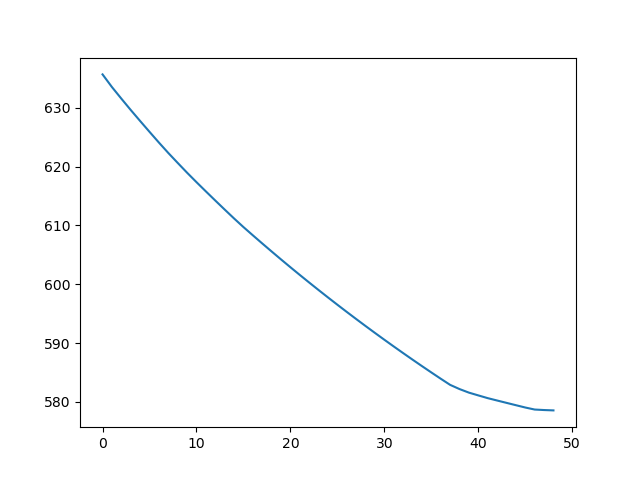
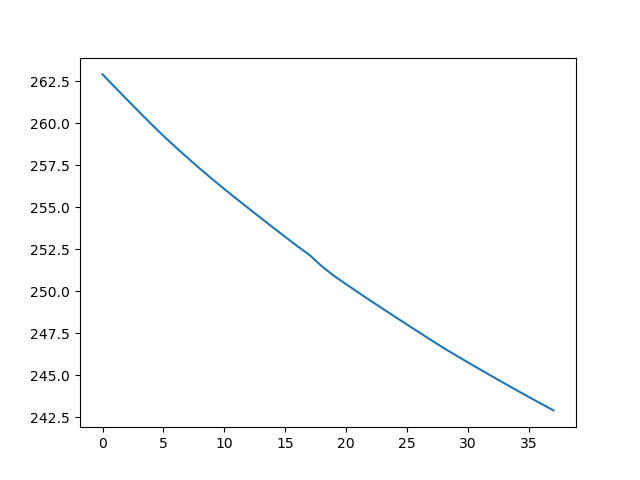
u

diff --git a/Jupyterbook/Notebooks/benchmarking/case2/runC.py b/Jupyterbook/Notebooks/benchmarking/case2/runC.py
@@ -49,8 +49,8 @@ tempMax   = 1.
 viscosity = 1
 
 tol = 1e-5
-res = 12                        ### x and y res of box
-nsteps = 20                 ### maximum number of time steps to run the first model 
+res = 24                        ### x and y res of box
+nsteps = 50                 ### maximum number of time steps to run the first model 
 epsilon_lr = 1e-3              ### criteria for early stopping; relative change of the Vrms in between iterations  
 
 
@@ -85,8 +85,6 @@ def getDifference(oldVars, newVars):
         newVar = newVars[vIndex]
 
         dimension = len(oldVar[0])
-
-
         for elIndex in range(len(oldVar)):
                 
             for dIndex in range(dimension):
@@ -379,6 +377,8 @@ if infile == None:
     vrmsVal =  []  # v_rms values 
     NuVal =  []      # Nusselt number values
     difference = []  ## differences in the mesh variables
+    vrmsVal.append(0)
+    timeVal.append(0)
 else:
     with open(infile + "markers.pkl", 'rb') as f:
         loaded_data = pickle.load(f)
@@ -386,6 +386,8 @@ else:
         vrmsVal = loaded_data[1]
         NuVal = loaded_data[2]
         difference = loaded_data[3]
+
+time = timeVal[-1]
 
     
 
@@ -395,9 +397,6 @@ else:
 
 print("started the time loop")
 while t_step < nsteps:
-
-    vrmsVal.append(v_rms())
-    timeVal.append(time)
     with meshbox.access():
         old_t_soln_data = deepcopy(t_soln.data)
         old_v_soln_data = deepcopy(p_soln.data)
@@ -435,6 +434,7 @@ while t_step < nsteps:
             plt.plot(difference[1:])
             plt.savefig(outdir + "difference.png")
             plt.clf()
+            print(timeVal)
             plt.plot(timeVal, vrmsVal)
             plt.savefig(outdir + "vrms.png")
             plt.clf()
@@ -455,6 +455,9 @@ while t_step < nsteps:
     #if t_step > 1 and abs((NuVal[t_step] - NuVal[t_step - 1])/NuVal[t_step]) < epsilon_lr:
     t_step += 1
     time   += delta_t
+
+    vrmsVal.append(v_rms())
+    timeVal.append(time)
 
 # save final mesh variables in the run 
 meshbox.write_timestep_xdmf(filename = outfile, meshVars=[v_soln, p_soln, t_soln], index=0)

diff --git a/Jupyterbook/Notebooks/benchmarking/case2/run.py b/Jupyterbook/Notebooks/benchmarking/case2/run.py
@@ -38,8 +38,7 @@ comm = MPI.COMM_WORLD
 
 # %%
 Ra = 1e4 #### Rayleigh number
-
-k = 1.0 #### diffusivity
+k = 1.0 #### diffusivity     
 
 boxLength = 1.0
 boxHeight = 1.0
@@ -49,8 +48,8 @@ tempMax   = 1.
 viscosity = 1
 
 tol = 1e-5
-res = 12                        ### x and y res of box
-nsteps = 20                 ### maximum number of time steps to run the first model 
+res = 24                        ### x and y res of box
+nsteps = 50                 ### maximum number of time steps to run the first model 
 epsilon_lr = 1e-3              ### criteria for early stopping; relative change of the Vrms in between iterations  
 
 
@@ -379,6 +378,8 @@ if infile == None:
     vrmsVal =  []  # v_rms values 
     NuVal =  []      # Nusselt number values
     difference = []  ## differences in the mesh variables
+    vrmsVal.append(0)
+    timeVal.append(0)
 else:
     with open(infile + "markers.pkl", 'rb') as f:
         loaded_data = pickle.load(f)
@@ -386,6 +387,7 @@ else:
         vrmsVal = loaded_data[1]
         NuVal = loaded_data[2]
         difference = loaded_data[3]
+time = timeVal[-1]
 
     
 
@@ -395,9 +397,6 @@ else:
 
 print("started the time loop")
 while t_step < nsteps:
-
-    vrmsVal.append(v_rms())
-    timeVal.append(time)
     with meshbox.access():
         old_t_soln_data = deepcopy(t_soln.data)
         old_v_soln_data = deepcopy(p_soln.data)
@@ -435,6 +434,7 @@ while t_step < nsteps:
             plt.plot(difference[1:])
             plt.savefig(outdir + "difference.png")
             plt.clf()
+            print(timeVal)
             plt.plot(timeVal, vrmsVal)
             plt.savefig(outdir + "vrms.png")
             plt.clf()
@@ -455,6 +455,9 @@ while t_step < nsteps:
     #if t_step > 1 and abs((NuVal[t_step] - NuVal[t_step - 1])/NuVal[t_step]) < epsilon_lr:
     t_step += 1
     time   += delta_t
+
+    vrmsVal.append(v_rms())
+    timeVal.append(time)
 
 # save final mesh variables in the run 
 meshbox.write_timestep_xdmf(filename = outfile, meshVars=[v_soln, p_soln, t_soln], index=0)
